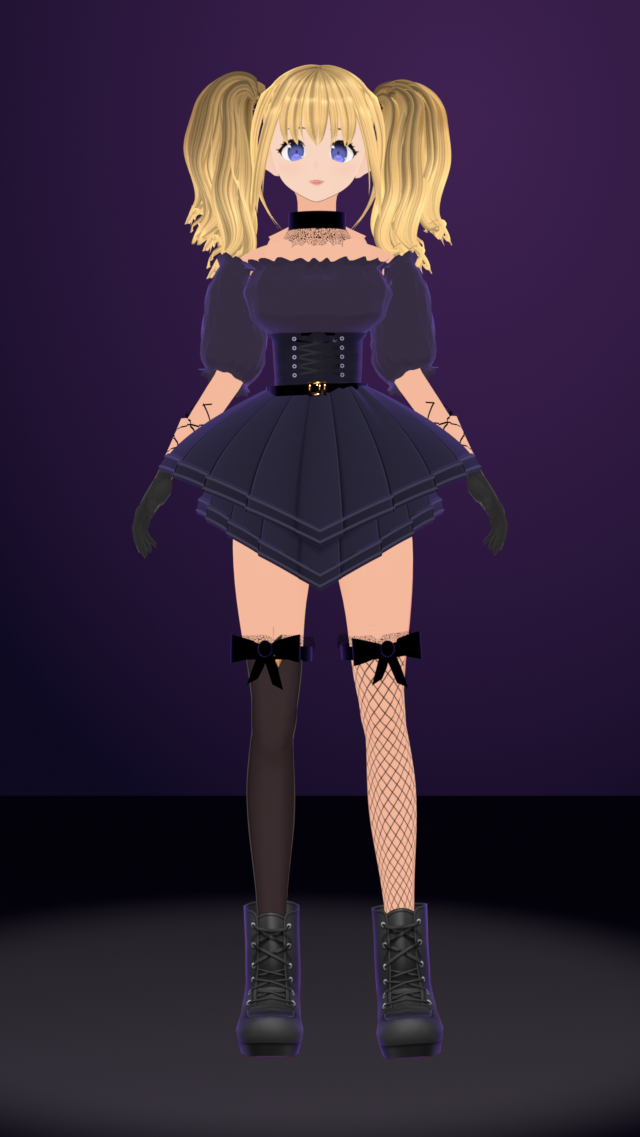
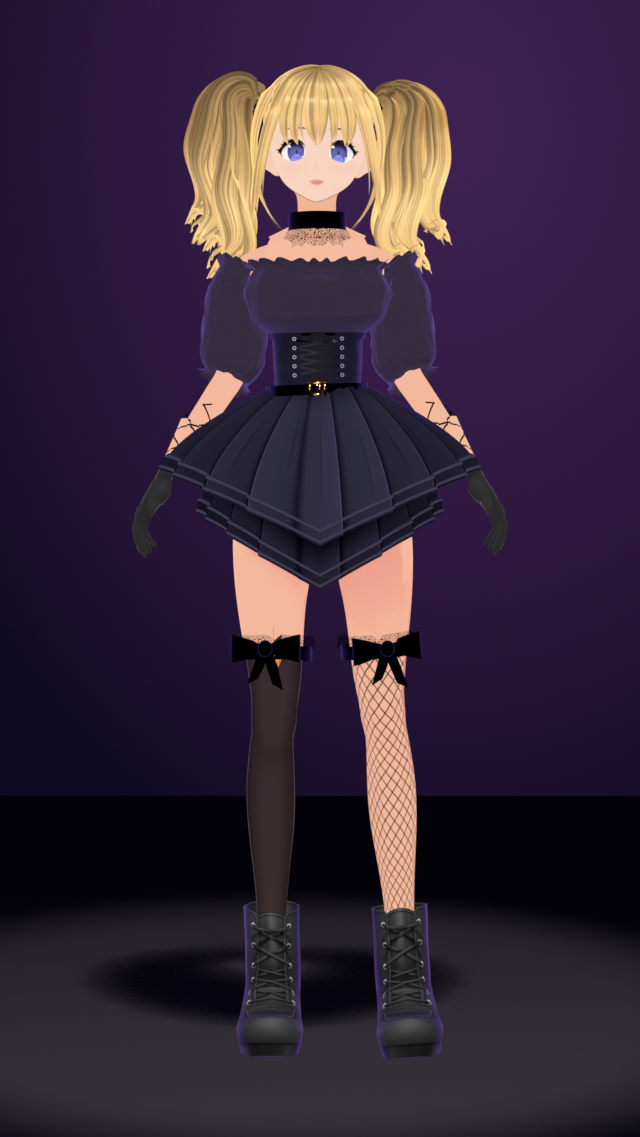
Goth agent skirt: wrinkles and shadows
The reference's skirt has soft wrinkles (gathers under the belt, long
creases down the panels) and strong shadows; ours was clean and evenly lit.
Two causes, both found by measuring:

- the VRM add-on's MToon barely answers the scene's lights (identical
  pixels with one light or five; every surface reached by any light counts
  as lit), so shading has to be painted, as anime models do. The skirt gets
  a tile per panel (four wrinkle variants): pleat profile, darker band and
  gather creases under the belt, long soft creases, lower tier darker and
  deepest under the upper tier's edge, and each panel darker toward the
  sides. Measured against the reference: mean (43,41,60) vs (43,39,56),
  darks and lights within a few levels, sides falling off as the
  reference's do instead of glowing.
- MToon surfaces are transparent to shadow rays (an Is Camera Ray switch),
  so the skirt threw no shadow. An invisible inset copy that only casts
  shadows now shades the thighs under it. The skirt's MToon rim is made
  thin; broad, it lit the flared sides whole.

Claude-Session: https://claude.ai/code/session_011M9r3rTGgXhm4baeKDbpr3

diff --git a/build/tools/blender-agent-refine.py b/build/tools/blender-agent-refine.py
@@ -645,8 +645,8 @@ def strip(rows, tier, folds, ncols=400):
             r = skirt_r(th, d, tier[0](th), tier[1](th), tier[2], k, t) + lift
             v = sb.verts.new((r * math.cos(th), cy + r * math.sin(th), ztop - d))
             for g_, w_ in skirt_weights(th, min(1.0, max(0.0, d / D_low(th)))).items(): v[sdl][g_] = w_
-            pd_ = pleat_dir(k); u_ = t if pd_ >= 0 else 1 - t                   # u runs from the tucked side (0) to the fold (1)
-            uvs[v] = (min(0.985, max(0.015, u_)), min(1.0, max(0.0, 1 - d / D_up(th) / 2))); ring_.append(v)
+            pd_ = pleat_dir(k); u_ = t if pd_ >= 0 else 1 - t                   # u runs from the tucked side (0) to the fold (1),
+            uvs[v] = ((k + min(0.985, max(0.015, u_))) / a.pleats, min(1.0, max(0.0, 1 - d / D_up(th) / 2)), k); ring_.append(v)   # its own tile
         grid.append(ring_)
     n = len(cols)
     for i in range(len(grid) - 1):
@@ -654,7 +654,8 @@ def strip(rows, tier, folds, ncols=400):
             j2 = (j + 1) % n; f = sb.faces.new((grid[i][j], grid[i][j2], grid[i + 1][j2], grid[i + 1][j]))
             f.material_index = rows[i + 1][2]; f.smooth = True
             step = folds and cols[j][1] > 1 - 1e-6
-            for l in f.loops: l[suv].uv = TRIM_UV if f.material_index == 1 else ((0.99, uvs[l.vert][1]) if step else uvs[l.vert])
+            vk_ = uvs[grid[i][j]][2]
+            for l in f.loops: l[suv].uv = TRIM_UV if f.material_index == 1 else (((vk_ + 0.99) / a.pleats, uvs[l.vert][1]) if step else uvs[l.vert][:2])
             if step:                                     # the lap: panel k's edge down to panel k+1's start (painted as the gap)
                 r1, r2 = (grid[i][j].co - Vector((0, cy, 0))).length, (grid[i][j2].co - Vector((0, cy, 0))).length
                 STEPS[f] = 1 if r1 > r2 else -1
@@ -677,19 +678,38 @@ for f in sb.faces:
     if f in STEPS:   # a lap faces the panel tucked under it
         if f.normal.dot(Vector((-math.sin(th), math.cos(th), 0))) * STEPS[f] < 0: f.normal_flip()
     elif f.normal.dot(Vector((c_.x, c_.y - cy, 0))) < 0: f.normal_flip()
-# MToon's toon shading flattens the panels to one tone from the front, so the creases are painted in as well: a
-# dark line at each fold and a soft falloff across the panel, and the lower tier darkens just under the upper's edge
-PW, PH = 256, 256; U_ = (np.arange(PW) + 0.5) / PW; V_ = (np.arange(PH) + 0.5) / PH
-# a pleat as the reference draws it, u from the tucked side to the fold: in the lap's shadow at first, a flat
-# face brightening a little toward the fold, a thin light line along the fold's edge, then the dark gap where
-# the cloth turns under the next panel; overall 12% lighter, as the reference's skirt measures
-shade_ = (0.62 + 0.38 * np.clip(U_ / 0.10, 0, 1) ** 0.6) * (0.9 + 0.12 * U_)
-shade_ = shade_ * (1 + 0.22 * np.exp(-((U_ - 0.945) / 0.012) ** 2)) * np.where(U_ > 0.962, 0.5, 1.0)
-q_ = (0.5 - V_) / 0.04; shadow_ = np.where((q_ >= 0) & (q_ <= 1), 1 - 0.38 * np.clip(1 - q_, 0, 1) ** 1.2, 1.0)
+# MToon's toon shading flattens the panels to one tone from the front (and barely answers the scene's lights),
+# so shading is painted in: one tile per panel, from four wrinkle variants, each panel darker the further it
+# turns toward the side, as the reference's do. u from the tucked side to the fold, v 0.5 at the upper
+# tier's hem. Each: a pleat as the reference draws it - in the lap's shadow at first, a face brightening toward
+# the fold, a thin light line along the fold's edge, a dark gap where it turns under - darker toward the
+# waistband, with short gather creases under the belt and a long soft crease or two down the panel; the lower
+# tier darker, deepest just under the upper tier's edge. Contrast and level set to the reference's measured tones.
+NV, PW, PH = 4, 256, 256; U_ = (np.arange(PW) + 0.5) / PW; V_ = (np.arange(PH) + 0.5) / PH; Ug, Vg = np.meshgrid(U_, V_)
+rng_ = np.random.default_rng(11); tiles = []
+for n_v in range(NV):
+    P = (0.5 + 0.5 * np.clip(Ug / 0.16, 0, 1) ** 0.6) * (0.9 + 0.12 * Ug)
+    P *= (1 + 0.22 * np.exp(-((Ug - 0.945) / 0.012) ** 2)) * np.where(Ug > 0.958, 0.45, 1.0)
+    P *= 1 - 0.28 * np.clip((Vg - 0.9) / 0.1, 0, 1) ** 1.2                  # into the waistband's shadow
+    for _ in range(int(rng_.integers(2, 4))):                               # gathers under the belt
+        uc, L, w, dk = rng_.uniform(0.15, 0.85), rng_.uniform(0.05, 0.11), rng_.uniform(0.018, 0.03), rng_.uniform(0.18, 0.3)
+        du = Ug - uc - 0.15 * (1 - Vg); fade = np.clip((Vg - (1 - L)) / L, 0, 1) ** 0.8
+        P *= 1 + fade * (-dk * np.exp(-(du / w) ** 2) + 0.5 * dk * np.exp(-((du - 1.6 * w) / w) ** 2))
+    for _ in range(int(rng_.integers(1, 3))):                               # long soft creases down the panel
+        v0, v1 = rng_.uniform(0.84, 0.95), rng_.uniform(0.55, 0.68); u0 = rng_.uniform(0.25, 0.75); u1 = u0 + rng_.uniform(-0.18, 0.18)
+        s_ = np.clip((v0 - Vg) / (v0 - v1), 0, 1); env = np.sin(np.pi * s_) * ((Vg <= v0) & (Vg >= v1))
+        du = Ug - (u0 + (u1 - u0) * s_); dk = rng_.uniform(0.10, 0.16)
+        P *= 1 + env * (-dk * np.exp(-(du / 0.035) ** 2) + 0.45 * dk * np.exp(-((du - 0.06) / 0.035) ** 2))
+    q_ = np.clip((0.5 - Vg) / 0.10, 0, 1)
+    P *= np.where(Vg < 0.5, 0.82 * (1 - 0.5 * (1 - q_) ** 1.3), 1.0)        # lower tier, in the upper one's shadow
+    tiles.append(P)
+side_ = [1 - 0.32 * abs(math.cos(PH0 + (k + 0.5) * 2 * math.pi / a.pleats)) ** 1.5 for k in range(a.pleats)]
+P = np.concatenate([tiles[(k * 7) % NV] * side_[k] for k in range(a.pleats)], axis=1)
+front_ = np.concatenate([tiles[(k * 7) % NV] for k in range(a.pleats) if side_[k] > 0.9], axis=1)
+P = P / front_[V_ >= 0.5].mean(); P = (1 + (P - 1) * 1.35) * 1.27          # level and contrast of the reference's skirt
 flat_ = np.array(lit_image(SKIRT_MAT).pixels[:], dtype=np.float32).reshape(-1, 4); flat_ = flat_[flat_[:, 3] > 0.5][:, :3].mean(0)
-pimg = bpy.data.images.new('Skirt panels', PW, PH, alpha=True); pp_ = np.ones((PH, PW, 4), np.float32)
-pp_[..., :3] = flat_[None, None, :] * ((shade_ / shade_.mean() * 1.12)[None, :] * shadow_[:, None])[..., None]
-pimg.pixels[:] = np.clip(pp_, 0, 1).ravel(); pimg.pack()
+pimg = bpy.data.images.new('Skirt panels', a.pleats * PW, PH, alpha=True); pp_ = np.ones((PH, a.pleats * PW, 4), np.float32)
+pp_[..., :3] = flat_[None, None, :] * P[..., None]; pimg.pixels[:] = np.clip(pp_, 0, 1).ravel(); pimg.pack()
 panel_mat = SKIRT_MAT.copy(); panel_mat.name = SKIRT_MAT.name.split(' (')[0] + ' panels'   # keeps the cloth key: soft shading, rim
 old_ = lit_image(SKIRT_MAT)
 for n_ in panel_mat.node_tree.nodes:
@@ -699,6 +719,13 @@ band_mat = panel_mat.copy(); band_mat.name = panel_mat.name.replace(' panels', '
 lc_ = mtoon(band_mat).inputs['Lit Color']; lc_.default_value = (*[c * 0.82 for c in lc_.default_value[:3]], 1.0)
 sob = bpy.data.objects.new('Skirt', sme); coll.objects.link(sob); sme.materials.append(panel_mat); sme.materials.append(trim); sme.materials.append(band_mat)
 sob.parent = arm; sob.modifiers.new('Armature', 'ARMATURE').object = arm
+# MToon surfaces are transparent to shadow rays (so they never self-shadow), which also means the skirt threw no
+# shadow on the thighs or on its own lower tier. An invisible copy a few mm inside it casts one.
+cst = sob.copy(); cst.name = 'Skirt shadow caster'; coll.objects.link(cst); CASTER = pmat('Shadow caster', (0, 0, 0))
+for sl_ in cst.material_slots: sl_.link = 'OBJECT'; sl_.material = CASTER
+dm_ = cst.modifiers.new('Inset', 'DISPLACE'); dm_.strength = -0.004; dm_.mid_level = 0.0
+for at_ in ('visible_camera', 'visible_diffuse', 'visible_glossy', 'visible_transmission', 'visible_volume_scatter'): setattr(cst, at_, False)
+cst.visible_shadow = True
 print('SKIRT rebuilt: %d panels; lower tier %.3f long at the sides / %.3f at the points, upper out to %.3f / %.3f; %d verts'
       % (a.pleats, a.skirt_side, a.skirt_front, a.skirt_radius, a.skirt_radius_front, len(sme.vertices)))
 # plain fabric: a flattened copy of the skirt texture (drops the buttons and panel seams)
@@ -1209,6 +1236,7 @@ for m in bpy.data.materials:
         if g and 'Shading Toony' in g.inputs:
             g.inputs['Shading Toony'].default_value = a.cloth_toony; g.inputs['Shading Shift'].default_value = 0.05; nsoft += 1
 print('SOFT SHADING on', nsoft, 'materials')
+
 # hair: warm ochre shade and softer cel so clumps and strands read (the reference's hair has deep gold shadows)
 for m in bpy.data.materials:
     if 'Hair_00_HAIR' in m.name and not m.name.startswith('MToon Outline') and m.node_tree:
@@ -1231,7 +1259,9 @@ def rim(keys, rgb, power, lift, mul):
 if a.rim:
     print('RIM', rim(('Hair_00_HAIR',), (255, 196, 96), 4.5, 0.0, a.rim * 0.7),
           # no skin rim: VRoid paints the gloves into the skin texture and a rim turns them brown
-          rim(('Tops_01_CLOTH', 'Bodice', 'Skirt trim', 'Shoes_01_CLOTH'), (150, 110, 255), 4.0, 0.0, a.rim * 0.5))
+          rim(('Tops_01_CLOTH', 'Bodice', 'Skirt trim', 'Shoes_01_CLOTH'), (150, 110, 255), 4.0, 0.0, a.rim * 0.5),
+          # the skirt flares out sideways, so a broad rim lit its whole sides; the reference's sides fall into shade
+          rim((' panels', ' band', 'Skirt trim'), (150, 110, 255), 9.0, 0.0, a.rim * 0.35))
 # no outline shell on the body skin: VRoid removed the skin under the old collar and sleeves, and the
 # inverted-hull outline shows through those gaps as dark red. The reference has no skin contour lines anyway.
 for md in list(body.modifiers):

diff --git a/design/blender/agent/README.md b/design/blender/agent/README.md
@@ -168,11 +168,17 @@ reference picture:
   front, as in the reference (4 cm stacked the two hem bands into
   stripes). Each hem is a band standing off its tier, a shade darker,
   with two thin light cords along its edges and a rolled edge; there is
-  no frill under it, as in the reference. Toon shading flattens the
-  panels to one tone from the front, so the creases are also painted into
-  a small texture of their own (a dark line at each fold, a soft falloff
-  across each panel, and a shadow on the lower tier just under the upper
-  one's edge). Bone
+  no frill under it, as in the reference. The toon shading barely
+  answers the stage's lights (every surface reached by any light counts as
+  lit), so the skirt's shading is painted into a texture of its own, one
+  tile per panel from four wrinkle variants: the pleat profile, a darker
+  band under the belt with short gather creases, a long soft crease or
+  two down the panel, the lower tier darker and deepest just under the
+  upper one's edge, and each panel darker the further it turns toward the
+  side - measured against the reference's skirt (mean, darks and lights
+  within a few levels). Its MToon rim is thin (it lit the flared sides
+  whole). MToon surfaces are transparent to shadow rays, so an invisible
+  copy of the skirt a few mm inside it casts its shadow on the thighs. Bone
   weights are copied from VRoid's skirt by angle and relative depth
   (hips, spine and its skirt bones). With the shorter skirt, the garter
   straps VRoid paints up the thighs are painted out: the reference's
